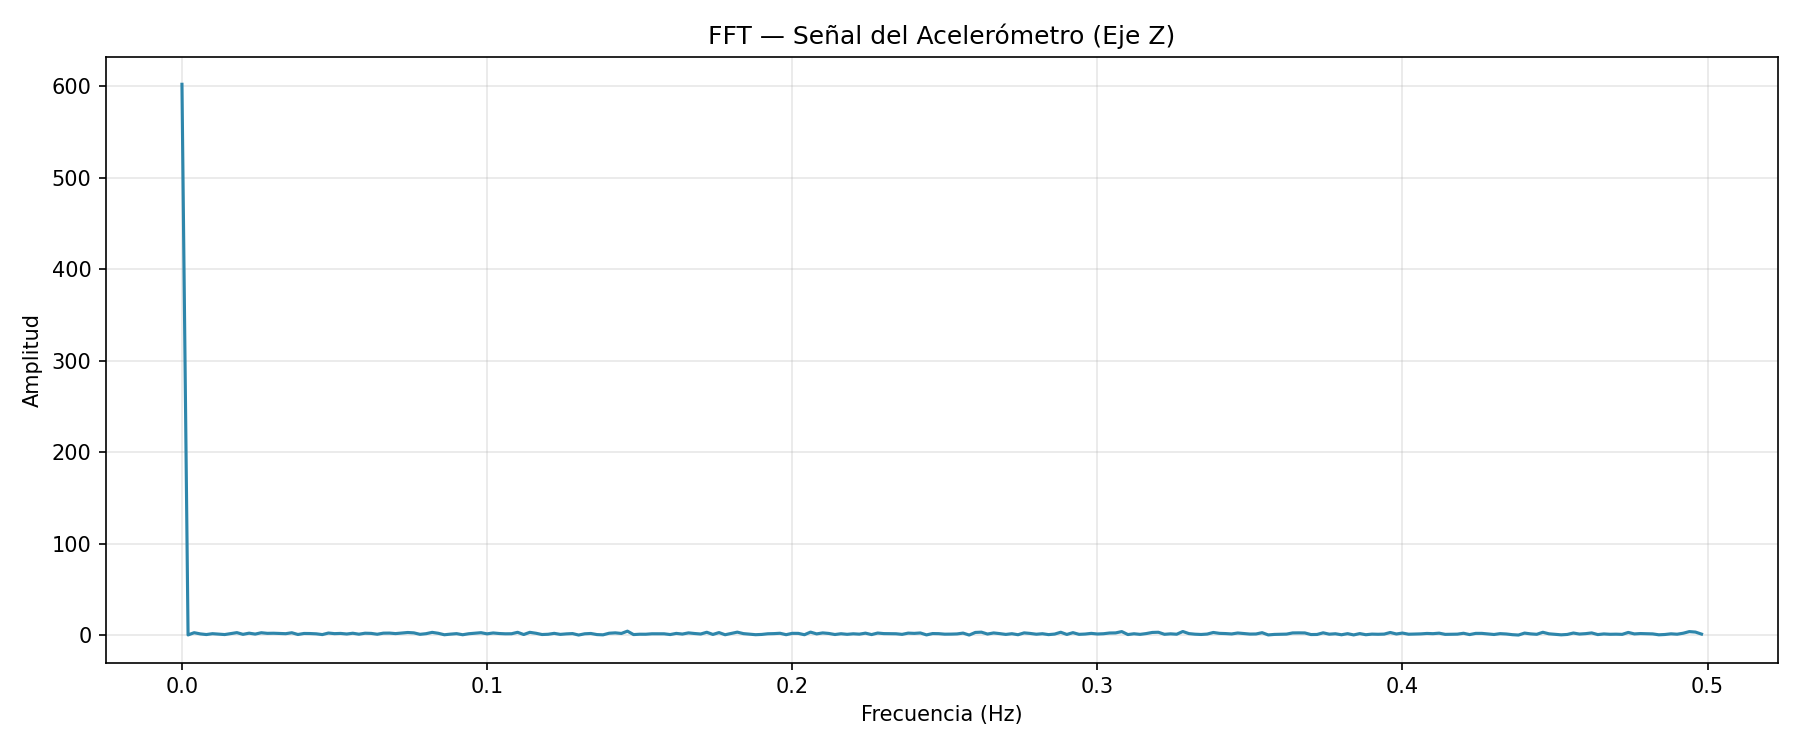
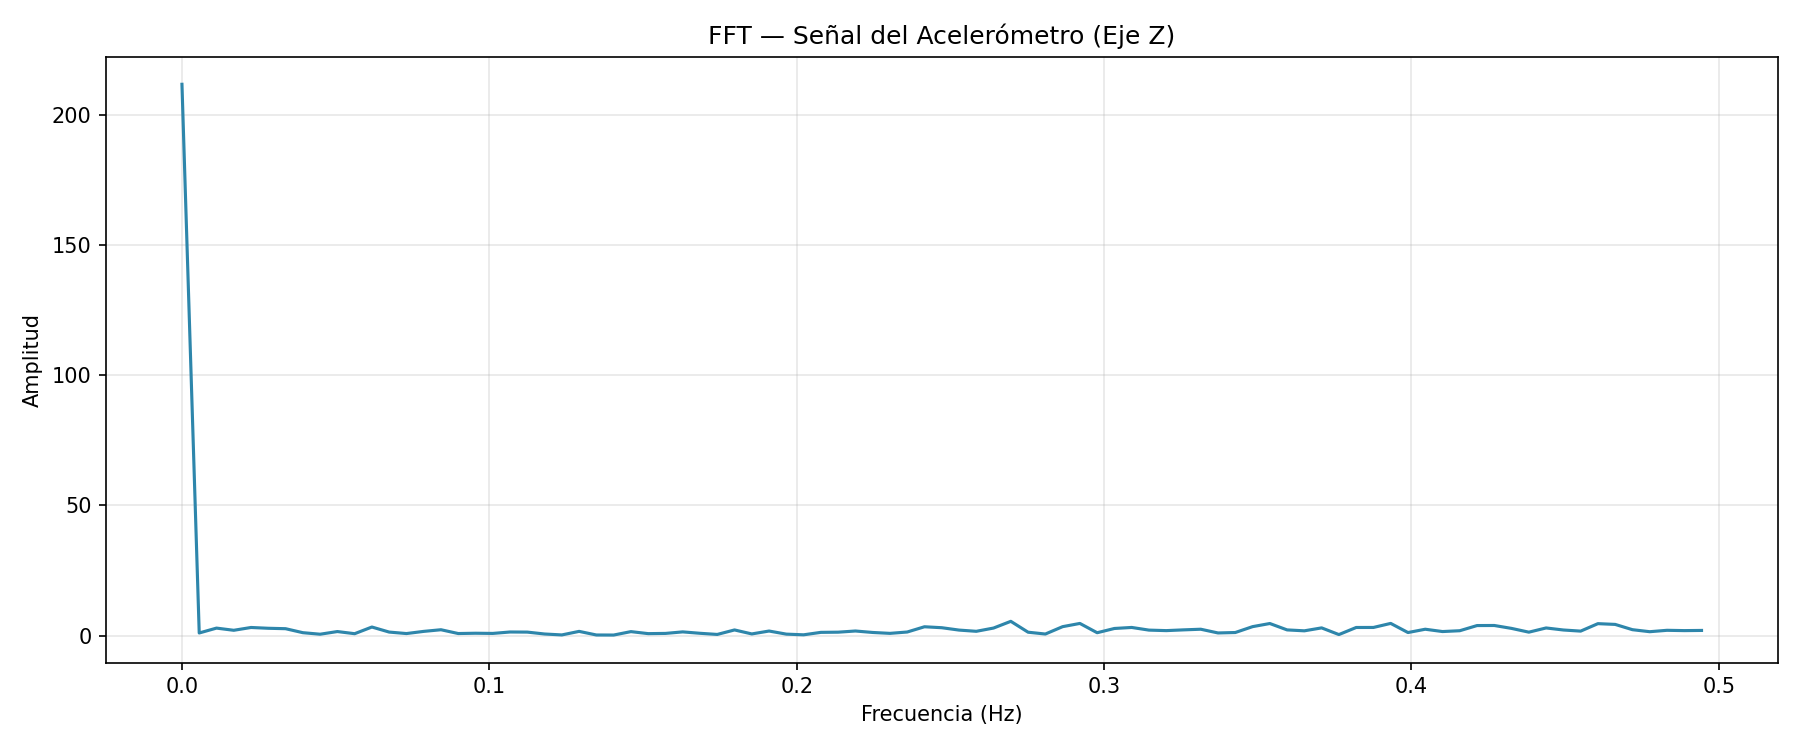
aprendiendo contexto general

diff --git a/fft_real.py b/fft_real.py
@@ -1,0 +1,37 @@
+import pandas as pd
+import numpy as np
+import matplotlib.pyplot as plt
+
+# Carga datos reales
+df = pd.read_csv("acelerometro_simulado.csv")
+df['Hora'] = pd.to_datetime(df['Hora'], format='%H:%M:%S')
+
+# Usamos solo filas desde el segundo 17 en adelante (parte estable)
+hora_inicio = pd.to_datetime("01:23:17", format='%H:%M:%S')
+df = df[df['Hora'] >= hora_inicio].reset_index(drop=True)
+
+print(f"Filas después del filtro: {len(df)}")
+
+# Señal: solo eje Z
+z = df['Z'].values
+
+# Frecuencia de muestreo real
+fs = 4.14  # muestras por segundo
+
+# Calcular FFT
+n = len(z)                        # número de muestras
+fft_vals = np.fft.rfft(z)         # FFT solo parte positiva
+fft_amp = np.abs(fft_vals) / n    # amplitud normalizada
+freqs = np.fft.rfftfreq(n, d=1/fs) # eje de frecuencias en Hz
+
+# Graficar
+plt.figure(figsize=(10, 5))
+plt.plot(freqs, fft_amp)
+plt.xlabel("Frecuencia (Hz)")
+plt.ylabel("Amplitud (g)")
+plt.title("FFT - Eje Z - Datos Reales del Sensor")
+plt.grid(True)
+plt.tight_layout()
+plt.savefig("fft_real.png")
+plt.show()
+print("Gráfico guardado como fft_real.png")

diff --git a/analizar_fs.py b/analizar_fs.py
@@ -1,0 +1,14 @@
+import pandas as pd
+
+df = pd.read_csv("acelerometro_simulado.csv")
+
+df['Hora'] = pd.to_datetime(df['Hora'], format='%H:%M:%S')
+
+muestras_por_segundo = df.groupby('Hora').size()
+print("Muestras por segundo:")
+print(muestras_por_segundo)
+
+duracion = (df['Hora'].max() - df['Hora'].min()).seconds
+print(f"\nDuración total: {duracion} segundos")
+print(f"Total de filas: {len(df)}")
+print(f"Promedio de muestras/segundo: {len(df)/duracion:.2f}")